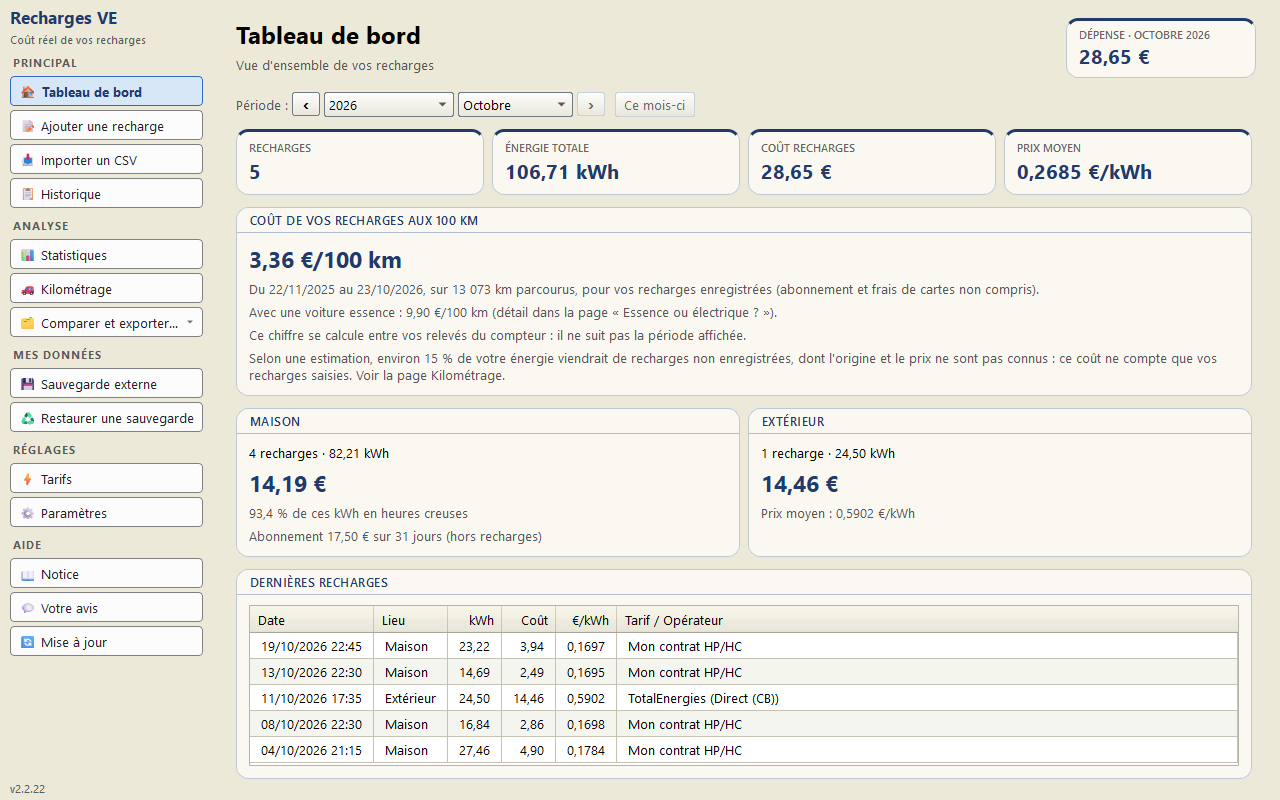
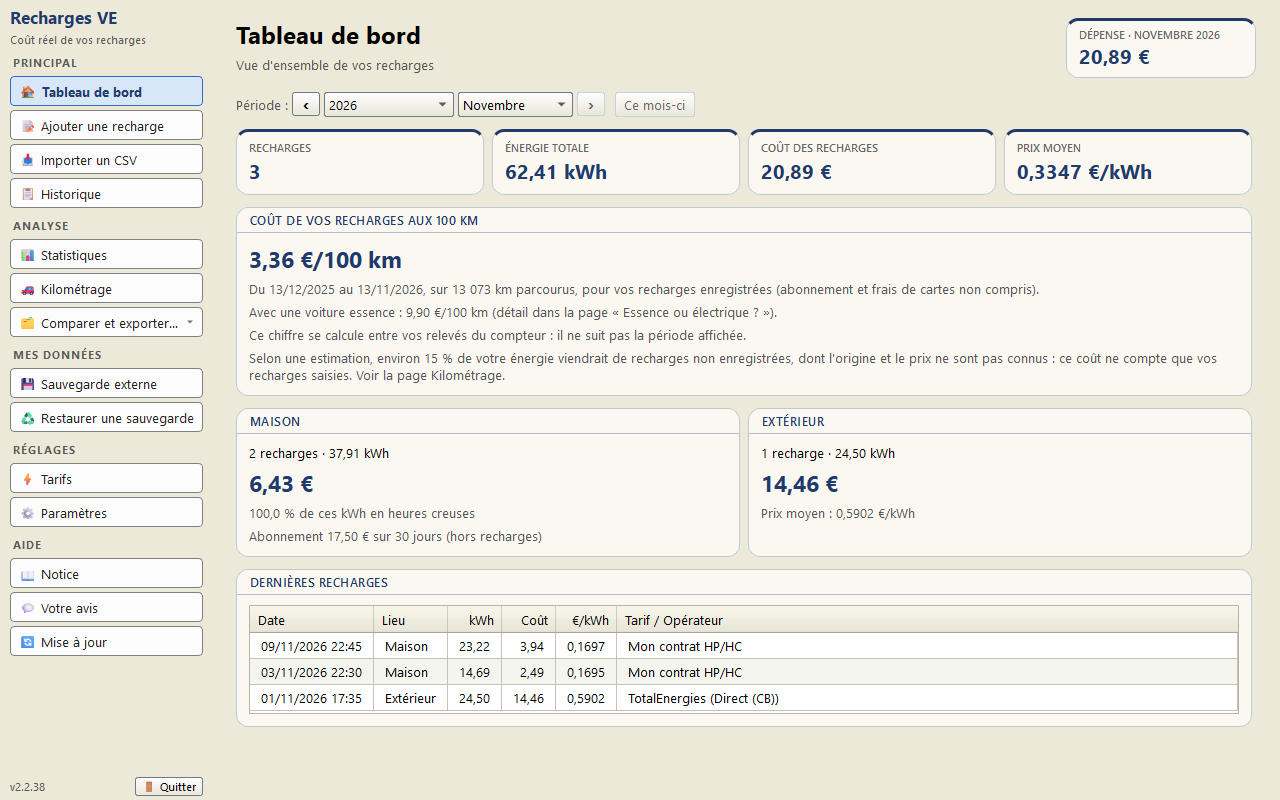
Site : numero 2.2.38 et captures refaites pour la sortie

diff --git a/docs/index.html b/docs/index.html
@@ -29,7 +29,7 @@
   "description": "Logiciel gratuit pour Windows, en français, pour suivre le coût des recharges d'une voiture électrique : à domicile, réparti entre heures pleines et heures creuses d'après la grille tarifaire, et sur les bornes publiques ; prix moyen du kWh, coût électrique aux 100 km, part d'énergie non enregistrée. Données stockées localement, sans compte ni cloud.",
   "applicationCategory": "UtilitiesApplication",
   "operatingSystem": "Windows 10, Windows 11",
-  "softwareVersion": "2.2.22",
+  "softwareVersion": "2.2.38",
   "inLanguage": "fr-FR",
   "isAccessibleForFree": true,
   "license": "https://opensource.org/licenses/MIT",
